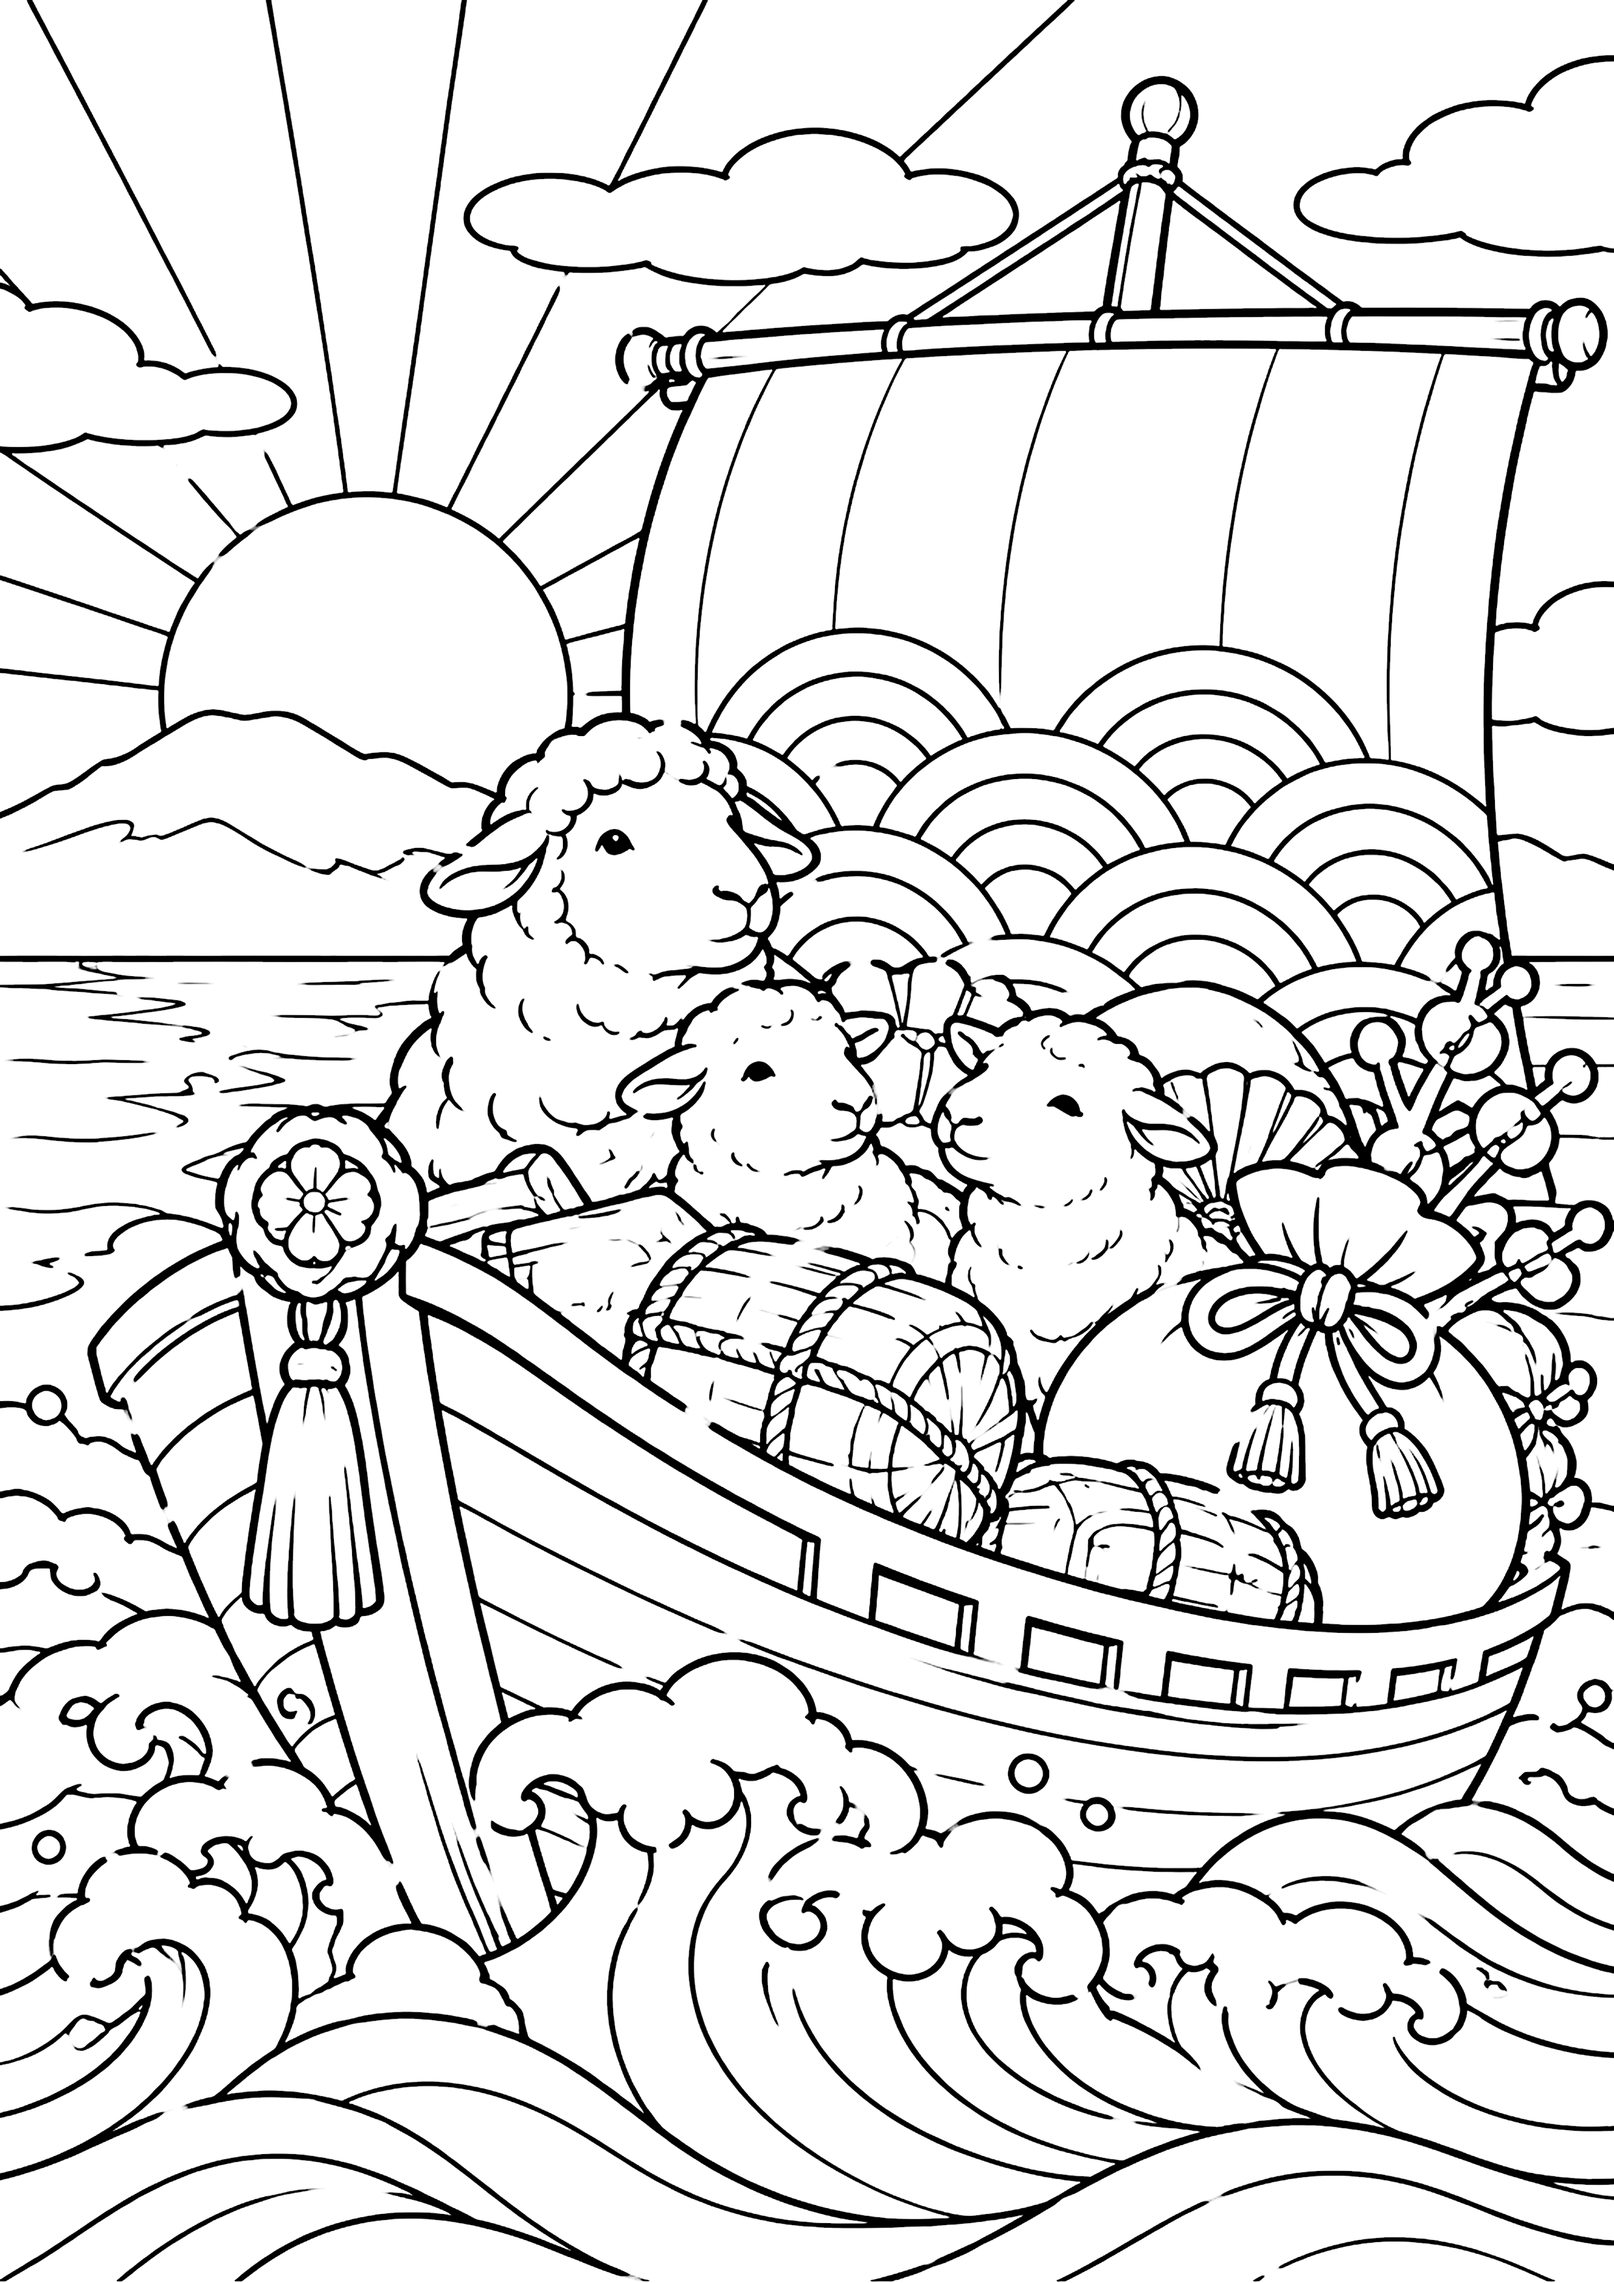
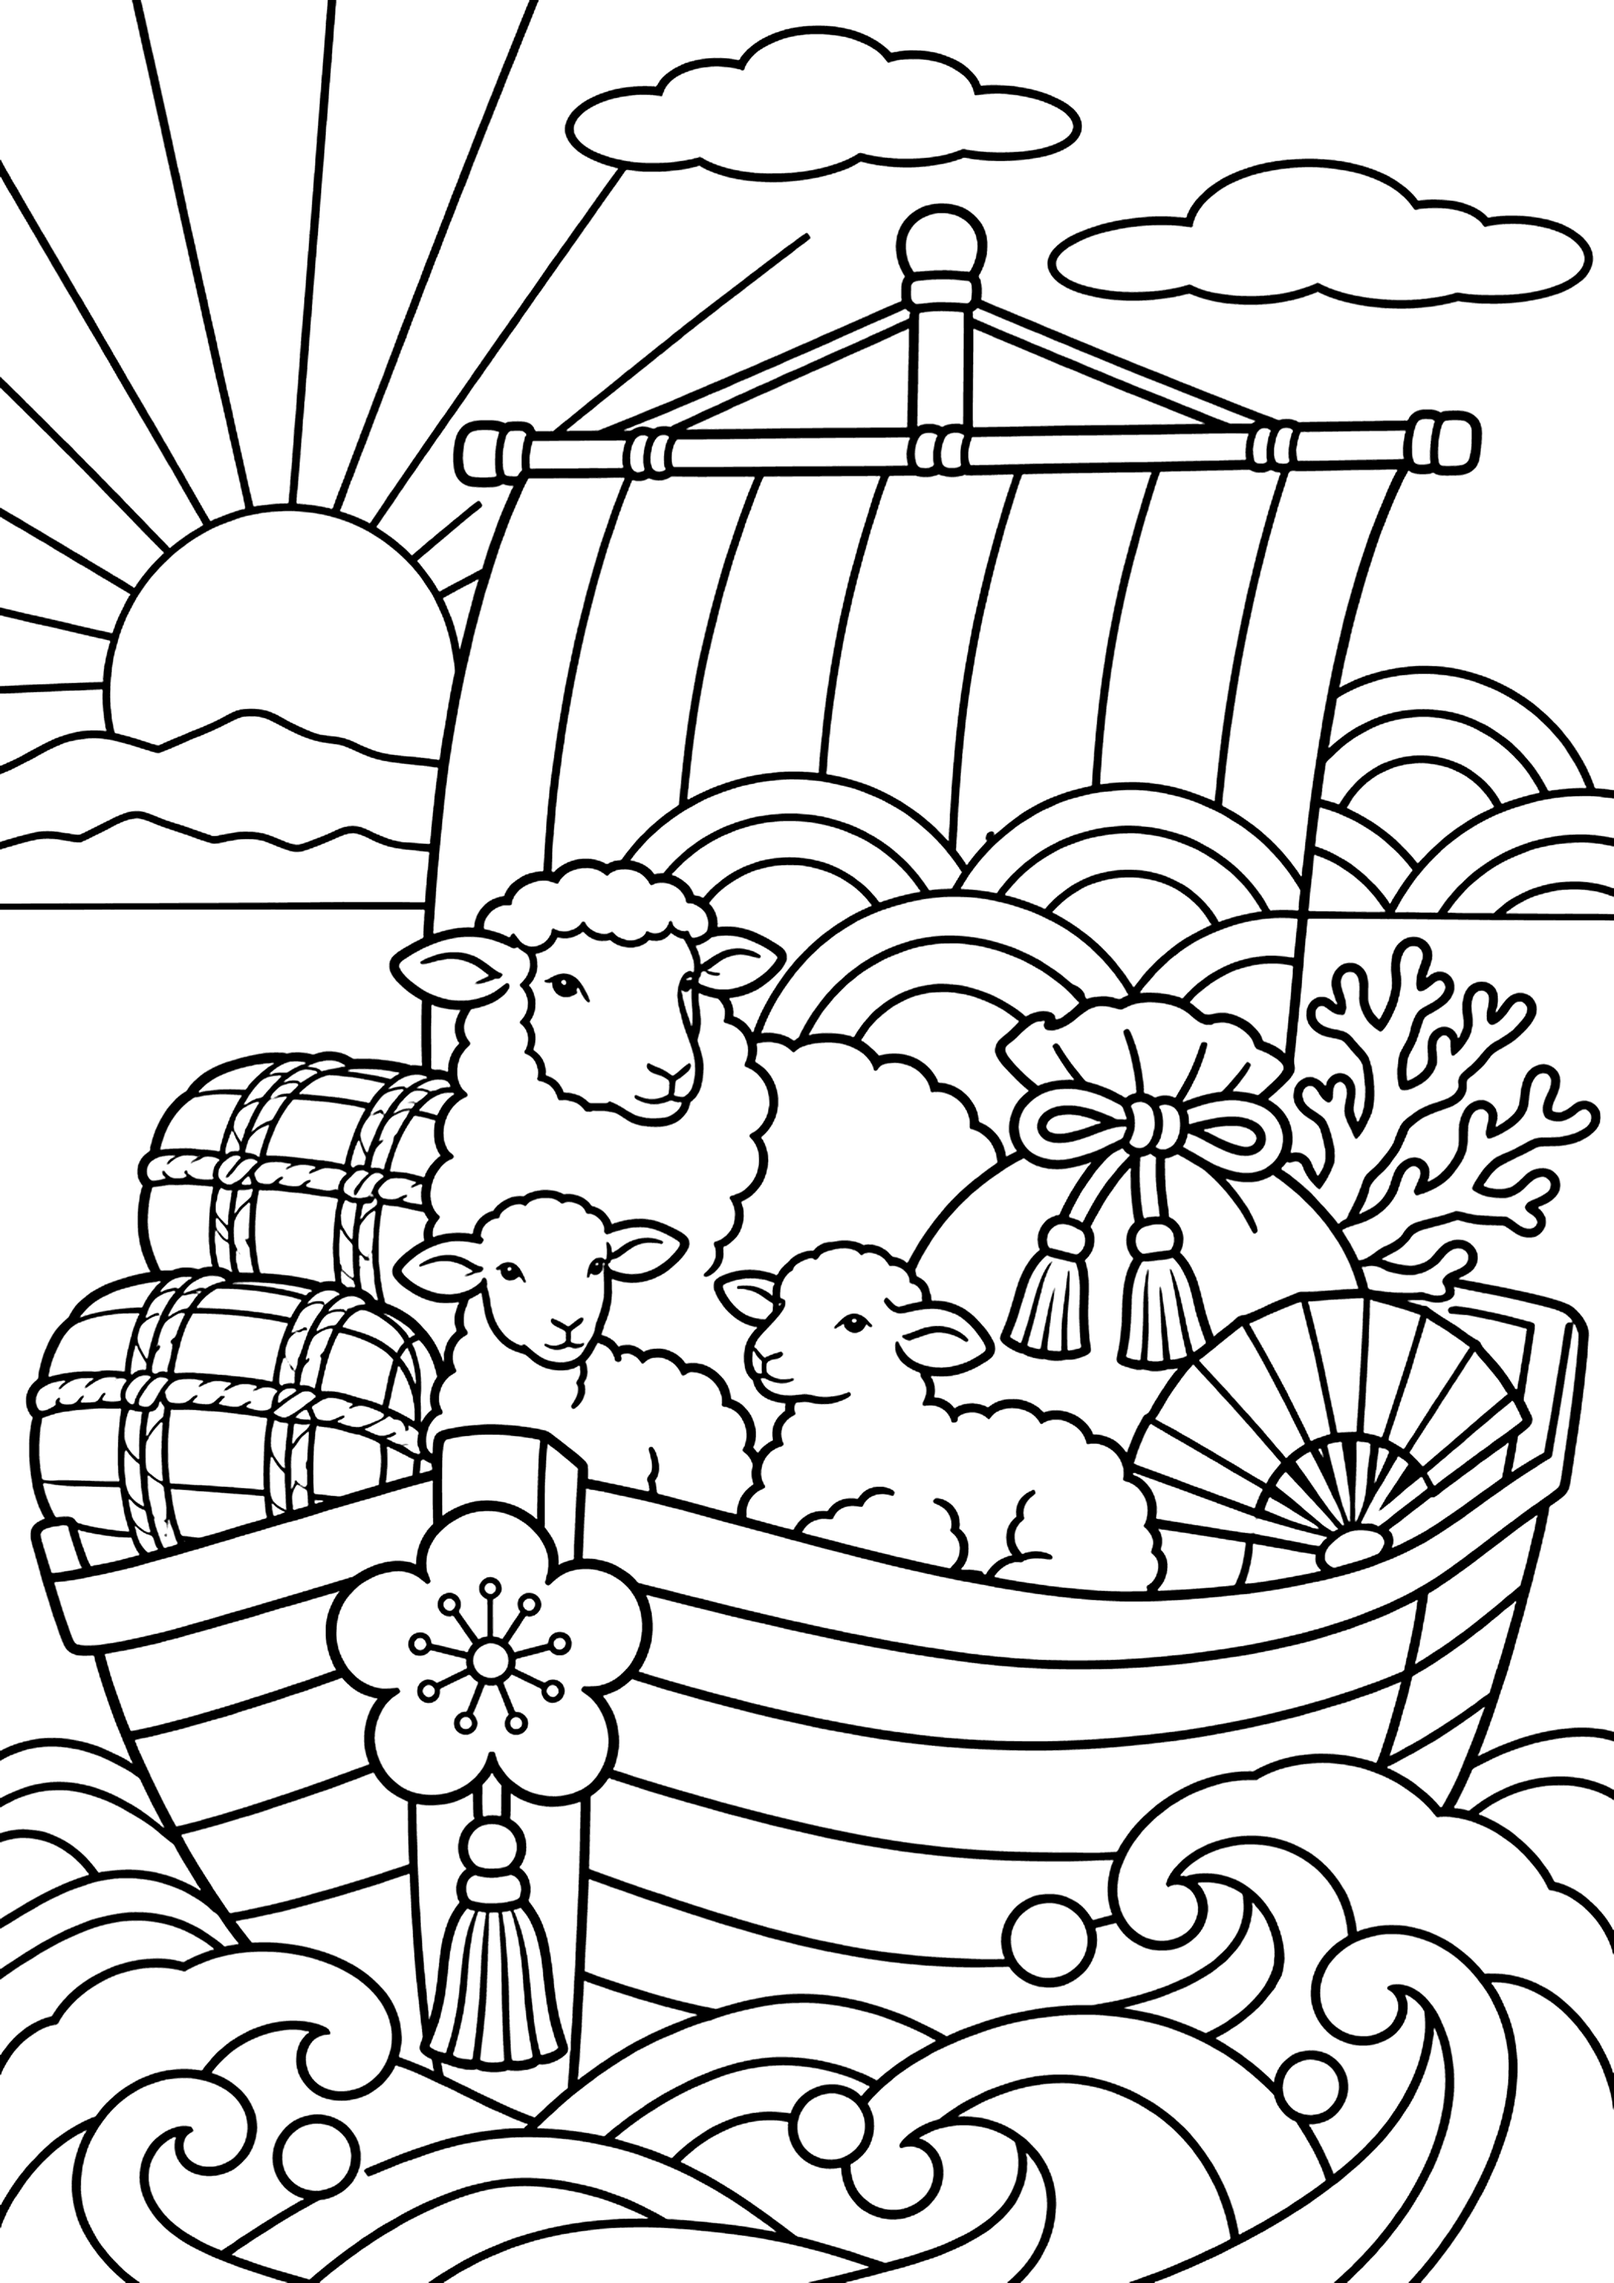
羊の宝船：中級を線のきれいな版に差し替え、初級を追加
Claude-Session: https://claude.ai/code/session_01EPRbSQarT8Zvr9Xt4KzYhj

diff --git a/data.js b/data.js
@@ -1488,7 +1488,8 @@ window.NURIE_LIST = [
   { season: "冬", genre: "食べ物", title: "おせち料理", diff: "中級", file: "osechi_chu.png", sample: "osechi_chu_sample.jpg", added: "2026-11", date: "2026-11-14", desc: "伊達巻・海老・黒豆・きんとんなどを詰めた重箱", v: "1794628201147" },
   { season: "冬", genre: "動物", title: "羊", diff: "初級", file: "hitsuji_sho.png", sample: "hitsuji_sho_sample.jpg", added: "2026-11", date: "2026-11-14", desc: "鈴の首輪をつけた羊と南天の枝。来年の干支・未", v: "1794628202147" },
   { season: "冬", genre: "動物", title: "羊の親子と初日の出", diff: "中級", file: "hitsuji_oyako_hatsuhinode_chu.png", sample: "hitsuji_oyako_hatsuhinode_chu_sample.jpg", added: "2026-11", date: "2026-11-14", desc: "山と湖を照らす初日の出と、羊の親子", v: "1794628203147" },
-  { season: "冬", genre: "行事", title: "羊の宝船", diff: "中級", file: "hitsuji_takarabune_chu.png", sample: "hitsuji_takarabune_chu_sample.jpg", added: "2026-11", date: "2026-11-14", desc: "宝船に乗った羊たちと米俵・打ち出の小槌。波と日の出", v: "1794628204147" },
+  { season: "冬", genre: "行事", title: "羊の宝船", diff: "中級", file: "hitsuji_takarabune_chu.png", sample: "hitsuji_takarabune_chu_sample.jpg", added: "2026-11", date: "2026-11-14", desc: "宝船に乗った羊たちと米俵・宝袋。波と日の出", v: "1795747956952" },
+  { season: "冬", genre: "行事", title: "羊の宝船", diff: "初級", file: "hitsuji_takarabune_sho.png", sample: "hitsuji_takarabune_sho_sample.jpg", added: "2026-11", date: "2026-11-27", desc: "宝船に乗った羊の親子と米俵・珊瑚。日の出と富士山", v: "1795747956952" },
   { season: "冬", genre: "行事", title: "しめ縄飾り", diff: "初級", file: "shimenawa_sho.png", sample: "shimenawa_sho_sample.jpg", added: "2026-11", date: "2026-11-14", desc: "扇と橙、裏白をあしらったお正月のしめ縄飾り", v: "1794628205147" },
   { season: "冬", genre: "行事", title: "門松", diff: "初級", file: "kadomatsu_sho.png", sample: "kadomatsu_sho_sample.jpg", added: "2026-11", date: "2026-11-14", desc: "竹と松、梅をあしらった一対の門松", v: "1794628206147" },
   { season: "冬", genre: "行事", title: "お屠蘇", diff: "初級", file: "otoso_sho.png", sample: "otoso_sho_sample.jpg", added: "2026-11", date: "2026-11-14", desc: "屠蘇器の盃と銚子をのせたお盆", v: "1794628207147" },
